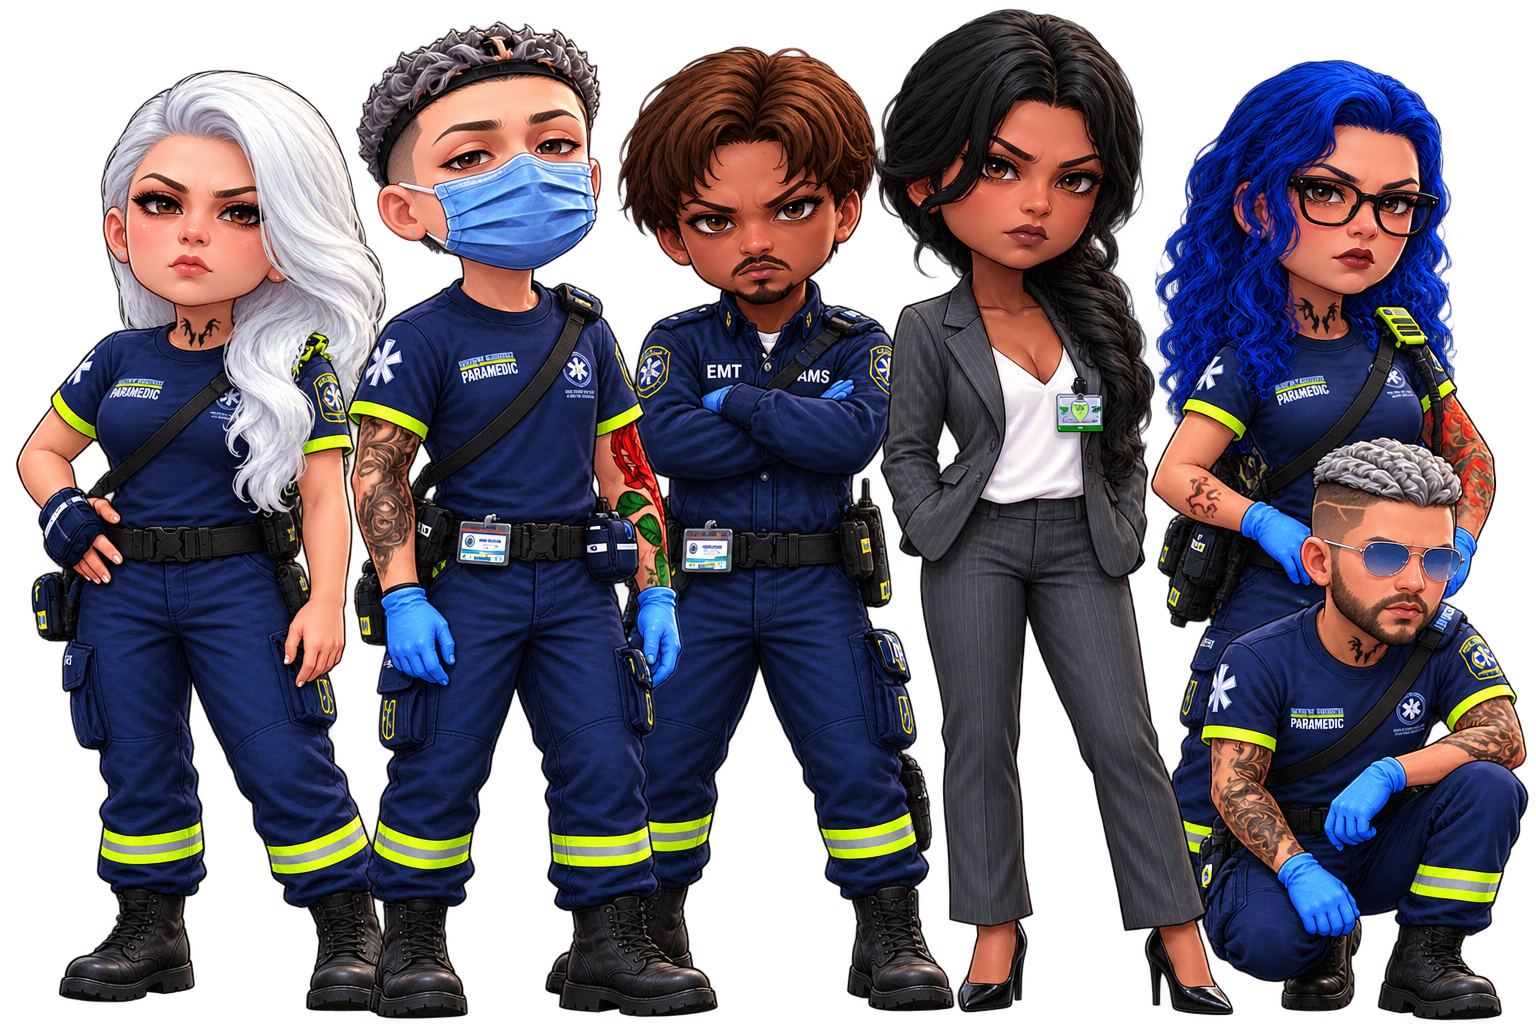
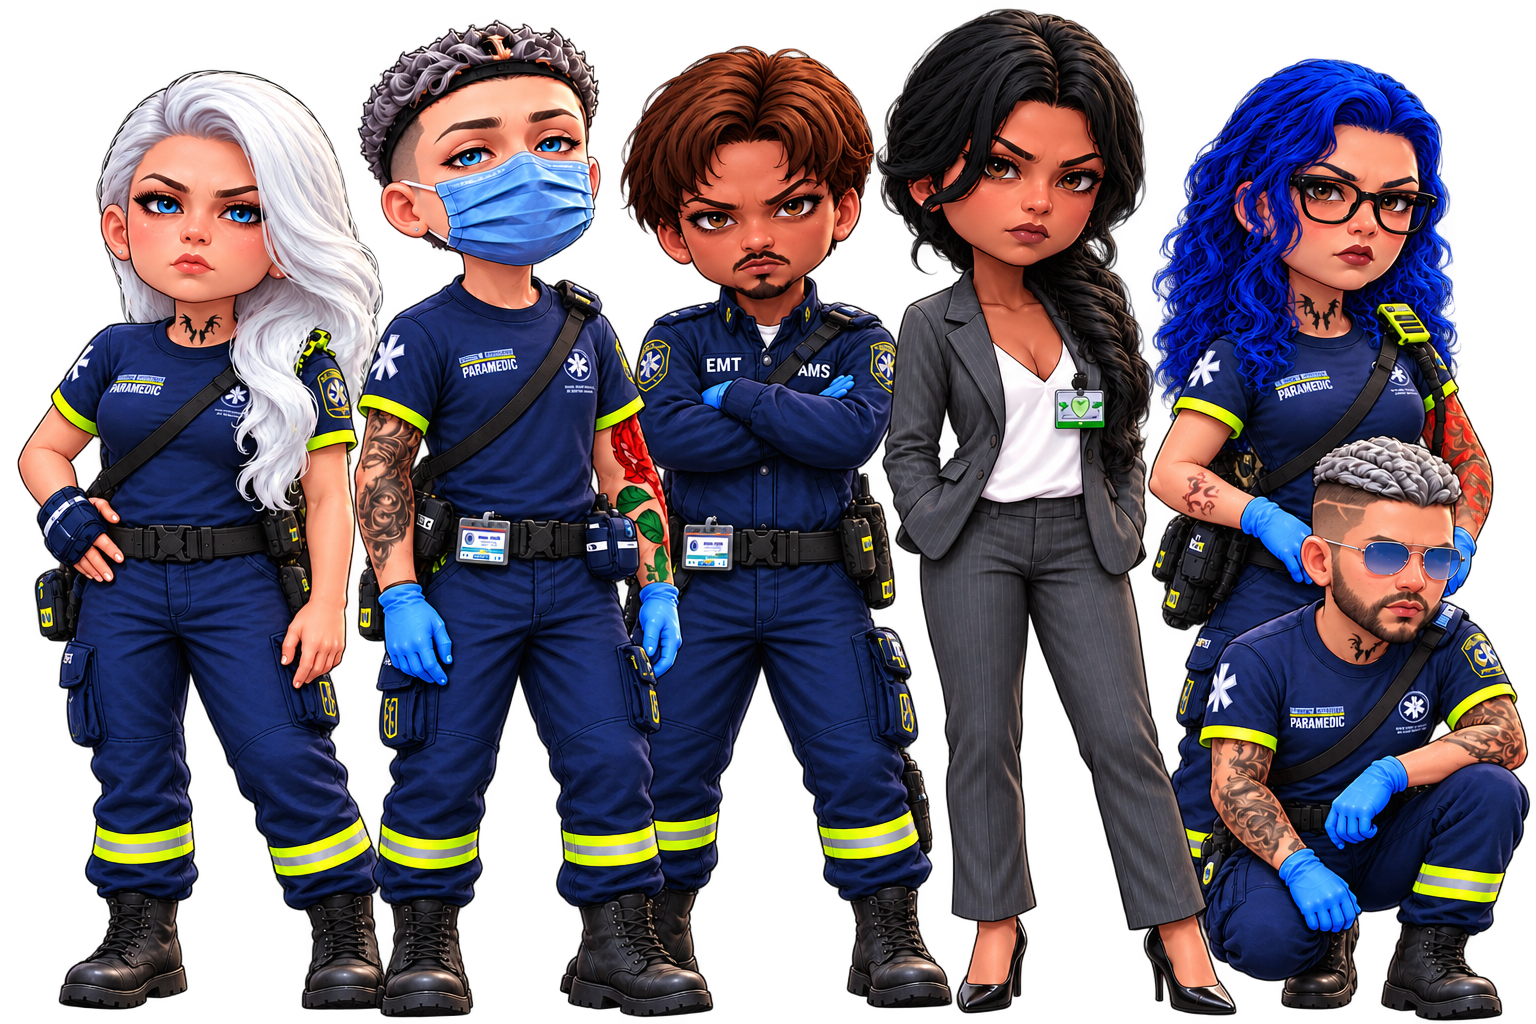
MAJ chibis

Changed region(s): [[0.0, 0.0, 1.0, 1.0], [0.5938, 0.0312, 0.625, 0.0625]]

diff --git a/src/styles.css b/src/styles.css
@@ -174,6 +174,12 @@ h2 > span { color: #a4a09b; }
 .role-detail li { display: flex; align-items: flex-start; gap: 10px; font-size: 13px; color: #c9b7a8; padding: 8px 0; line-height: 1.8; }
 .role-detail li svg { margin-top: 4px; color: #bb8a65; }
 .role-footer { border-top: 1px solid #fff1; padding-top: 19px; margin-top: auto; display: flex; align-items: center; gap: 10px; font-size: 11px; color: #9f8c79; }
+.role-illustration { flex: 1; min-height: 270px; display: flex; align-items: center; justify-content: center; padding: 8px 0 24px; }
+.role-illustration > img { display: block; width: min(100%, 260px); height: 260px; object-fit: contain; border: 0; border-radius: 0; background: transparent; }
+@media (max-width: 600px) {
+  .role-illustration { min-height: 220px; padding-bottom: 20px; }
+  .role-illustration > img { width: min(100%, 210px); height: 210px; }
+}
 .footnote { margin: 18px 0 0; font-size: 11px; color: #978c82; }
 
 /* Hôpital & carte Three.js */

diff --git a/src/App.jsx b/src/App.jsx
@@ -493,6 +493,17 @@ function Team() {
               </li>
             ))}
           </ul>
+          <div className="role-illustration" aria-hidden="true">
+            <img
+              key={role.niveau}
+              src={`/assets/grades/grade-${role.niveau}.png`}
+              alt=""
+              width="1254"
+              height="1254"
+              loading="lazy"
+              decoding="async"
+            />
+          </div>
           <div className="role-footer">
             <ShieldCheck size={17} />
             Une responsabilité, avant un titre.
@@ -1003,3 +1014,4 @@ export default function App() {
     </>
   );
 }
+

diff --git a/vite.config.js b/vite.config.js
@@ -5,7 +5,7 @@ import discordAvatar from './api/discord-avatar.js';
 export default defineConfig(({ mode }) => {
   const env = loadEnv(mode, process.cwd(), 'DISCORD_');
   for (const [key, value] of Object.entries(env)) process.env[key] ??= value;
-  const middleware = server => server.middlewares.use('/api/discord-avatar', discordAvatar);
+  const middleware = server => { server.middlewares.use('/api/discord-avatar', discordAvatar); };
   return {
     plugins: [react(), { name: 'discord-avatar-api', configureServer: middleware, configurePreviewServer: middleware }],
   };
